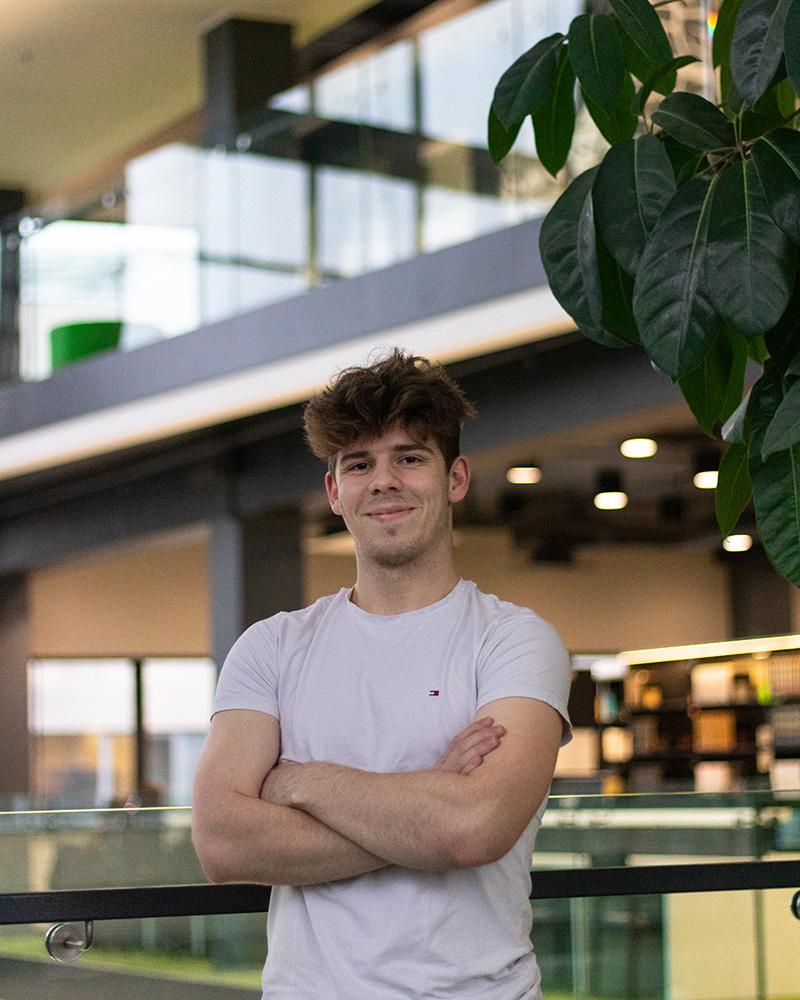
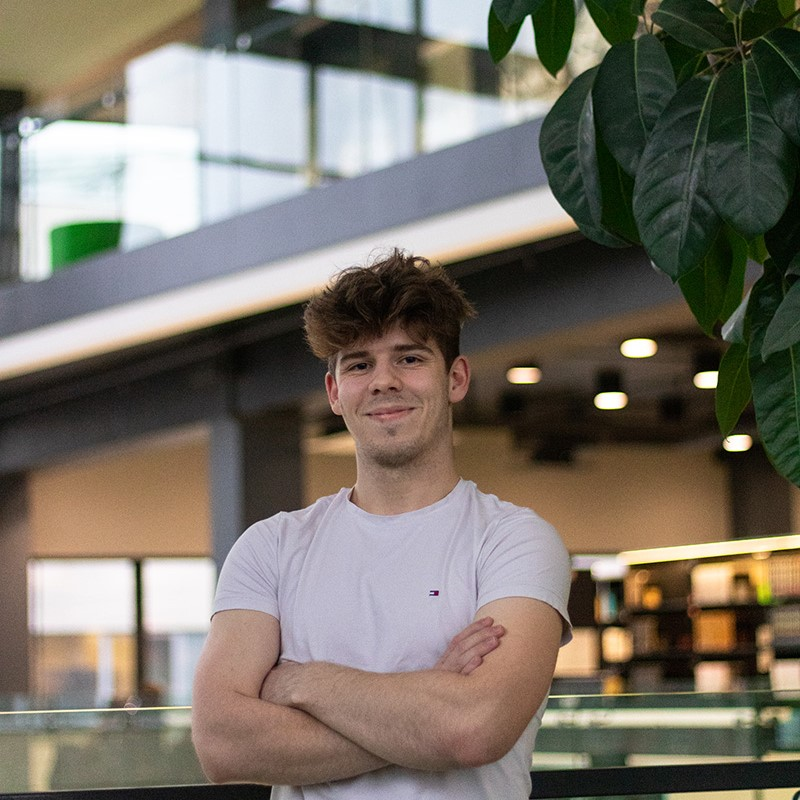
Editing card component, fixed square pictures

diff --git a/synnipaev/src/components/card.tsx b/synnipaev/src/components/card.tsx
@@ -1,44 +1,64 @@
 import Image, { StaticImageData } from "next/image";
-import Email from "@/assets/icons/email.svg"
+import Email from "@/assets/icons/email.svg";
 
 interface CardProps {
-    title: string;
-    image: string;
-    description: string;
-    board: boolean;
-    email?: string;
-    width?: number;
-    height?: number;
+  title: string;
+  image: string;
+  description: string;
+  board: boolean;
+  email?: string;
+  width?: number;
+  height?: number;
 }
 
-export default function Card({ title, image, description, board , email = "", width, height}: CardProps) {
-    if (board) {
-        return (
-            <div className="card shadow-filled" style={{width: width, height: height}}>
-                <div className="card-image">
-                    <Image style={{objectFit: "cover", translate: " 0 -20%"}} src={image} width={width} height={height} alt="Image" />
-                </div>
-                <div className="card-content board-member">
-                    <h5>{title}</h5>
-                    <p>{description}</p>
-                    <div>
-                        <Image src={Email} alt="Email" width={20} height={16} />
-                        <p>{email}</p>
-                    </div>
-                </div>
-            </div>
-        );
-    } else {
-        return (
-            <div className="card shadow-filled" style={{width: width, height: height}}>
-                <div className="card-image">
-                    <Image style={{objectFit: "cover"}} src={image} alt="Image" />
-                </div>
-                <div className="card-content">
-                    <h5>{title}</h5>
-                    <p>{description}</p>
-                </div>
-            </div>
-        );
-    }
+export default function Card({
+  title,
+  image,
+  description,
+  board,
+  email = "",
+  width,
+  height,
+}: CardProps) {
+  if (board) {
+    return (
+      <div
+        className="card shadow-filled"
+        style={{ width: width, height: height }}
+      >
+        <div className="card-image">
+          <Image
+            className="bg-cover bg-center"
+            src={image}
+            width={width}
+            height={height}
+            alt="Image"
+          />
+        </div>
+        <div className="w-full p-4 justify-between items-start gap-4 flex-col flex bg-epic-gradient">
+          <h5>{title}</h5>
+          <p>{description}</p>
+          <div className="justify-start items-center gap-2 flex-row flex">
+            <Image className="flex w-[20px] h-[20px]" src={Email} alt="Email" />
+            <p>{email}</p>
+          </div>
+        </div>
+      </div>
+    );
+  } else {
+    return (
+      <div
+        className="card shadow-filled"
+        style={{ width: width, height: height }}
+      >
+        <div className="flex">
+          <Image src={image} alt="Image" />
+        </div>
+        <div className="card-content">
+          <h5>{title}</h5>
+          <p>{description}</p>
+        </div>
+      </div>
+    );
+  }
 }

diff --git a/synnipaev/src/app/meist/page.tsx b/synnipaev/src/app/meist/page.tsx
@@ -45,7 +45,7 @@ export default function Home() {
   return (
     <div>
       <div className="justify-center items-center bg-about-bg bg-center bg-cover flex-row flex">
-        <div className="main-padding w-full h-full bg-custom-gradient justify-center items-center flex-row flex">
+        <div className="main-padding w-full h-full bg-epic-gradient justify-center items-center flex-row flex">
           <h1 className="big">Mis on {"\u003E"}itük_?</h1>
         </div>
       </div>

diff --git a/synnipaev/tailwind.config.ts b/synnipaev/tailwind.config.ts
@@ -26,7 +26,7 @@ export default {
         '2xl': '1536px',
       },
       backgroundImage: {
-        'custom-gradient': 'linear-gradient(90deg, rgba(75, 0, 110, 0.528) 0.07%, rgba(135, 0, 66, 0.528) 99.94%)',
+        'epic-gradient': 'linear-gradient(90deg, rgba(75, 0, 110, 0.528) 0.07%, rgba(135, 0, 66, 0.528) 99.94%)',
         'about-bg': "url('@/assets/images/about.jpg')",
       },
       boxShadow: {
